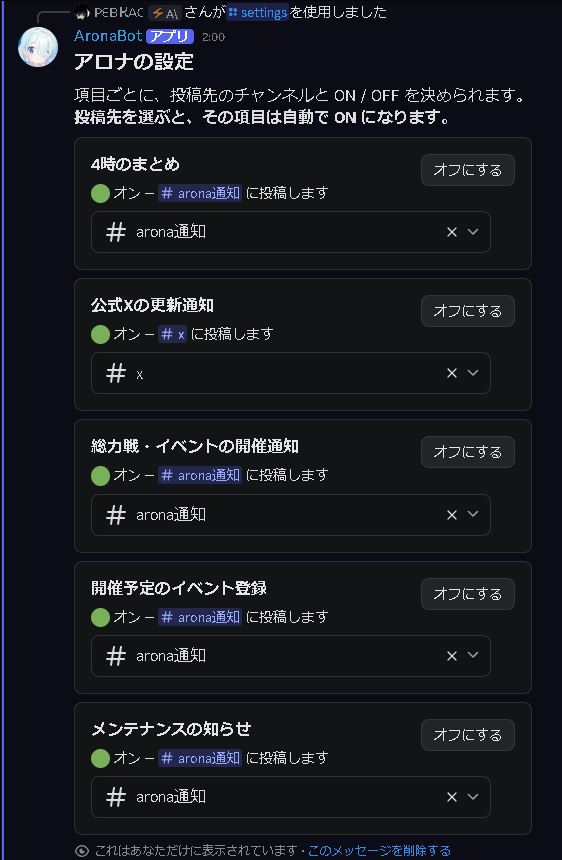
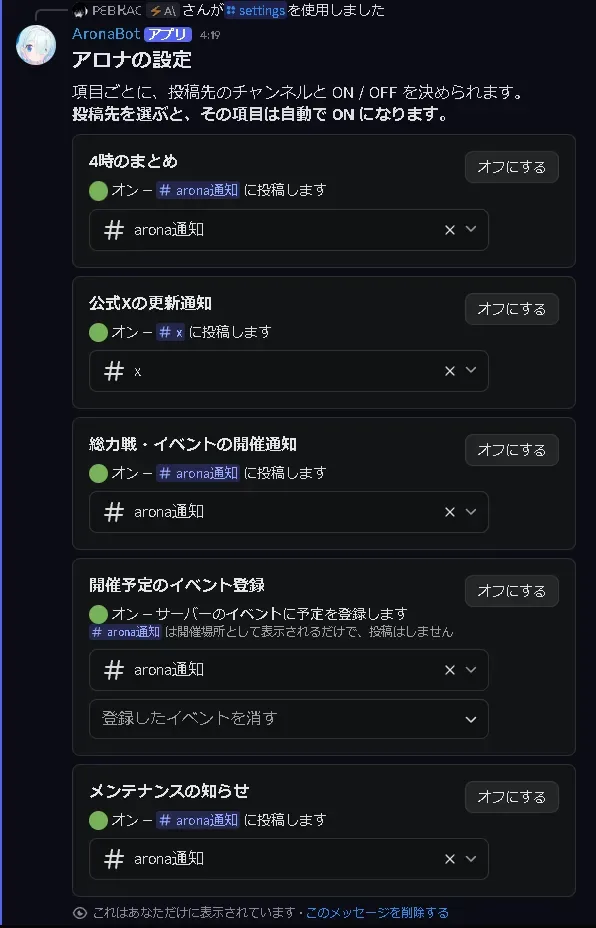
/settings の画像を新しい文言のものに差し替える

diff --git a/index.html b/index.html
@@ -187,7 +187,7 @@
               表示が🟢に変われば完了です。</p></div></li>
       </ol>
       <div class="shots">
-        <figure><a class="zoom" href="images/settings.webp"><img src="images/settings.webp" alt="/settings の設定画面。5 つの項目それぞれにオン・オフのボタンとチャンネル選択が並んでいる" loading="lazy" width="562" height="860"></a>
+        <figure><a class="zoom" href="images/settings.webp"><img src="images/settings.webp" alt="/settings の設定画面。5 つの項目それぞれにオン・オフのボタンとチャンネル選択が並び、イベント登録には投稿しない旨の注記が付いている" loading="lazy" width="596" height="928"></a>
           <figcaption><code>/settings</code> の画面</figcaption></figure>
       </div>
     </div>
